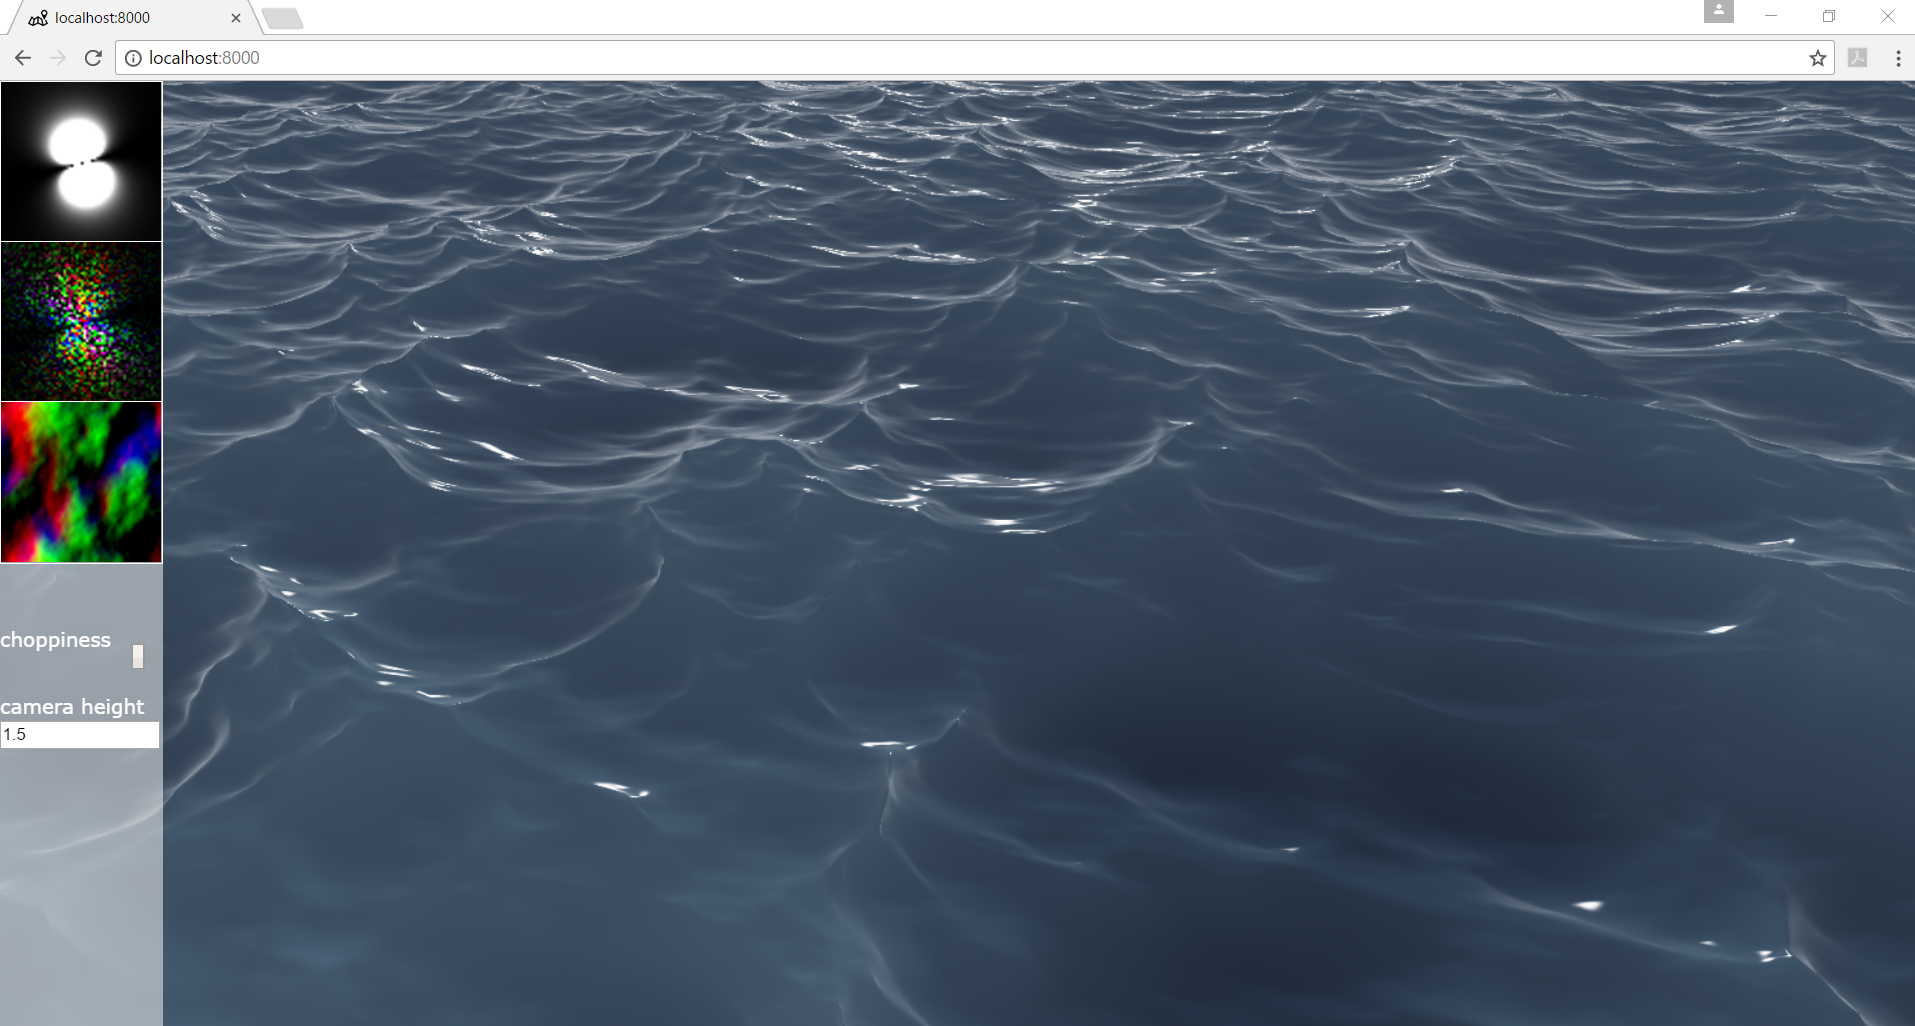
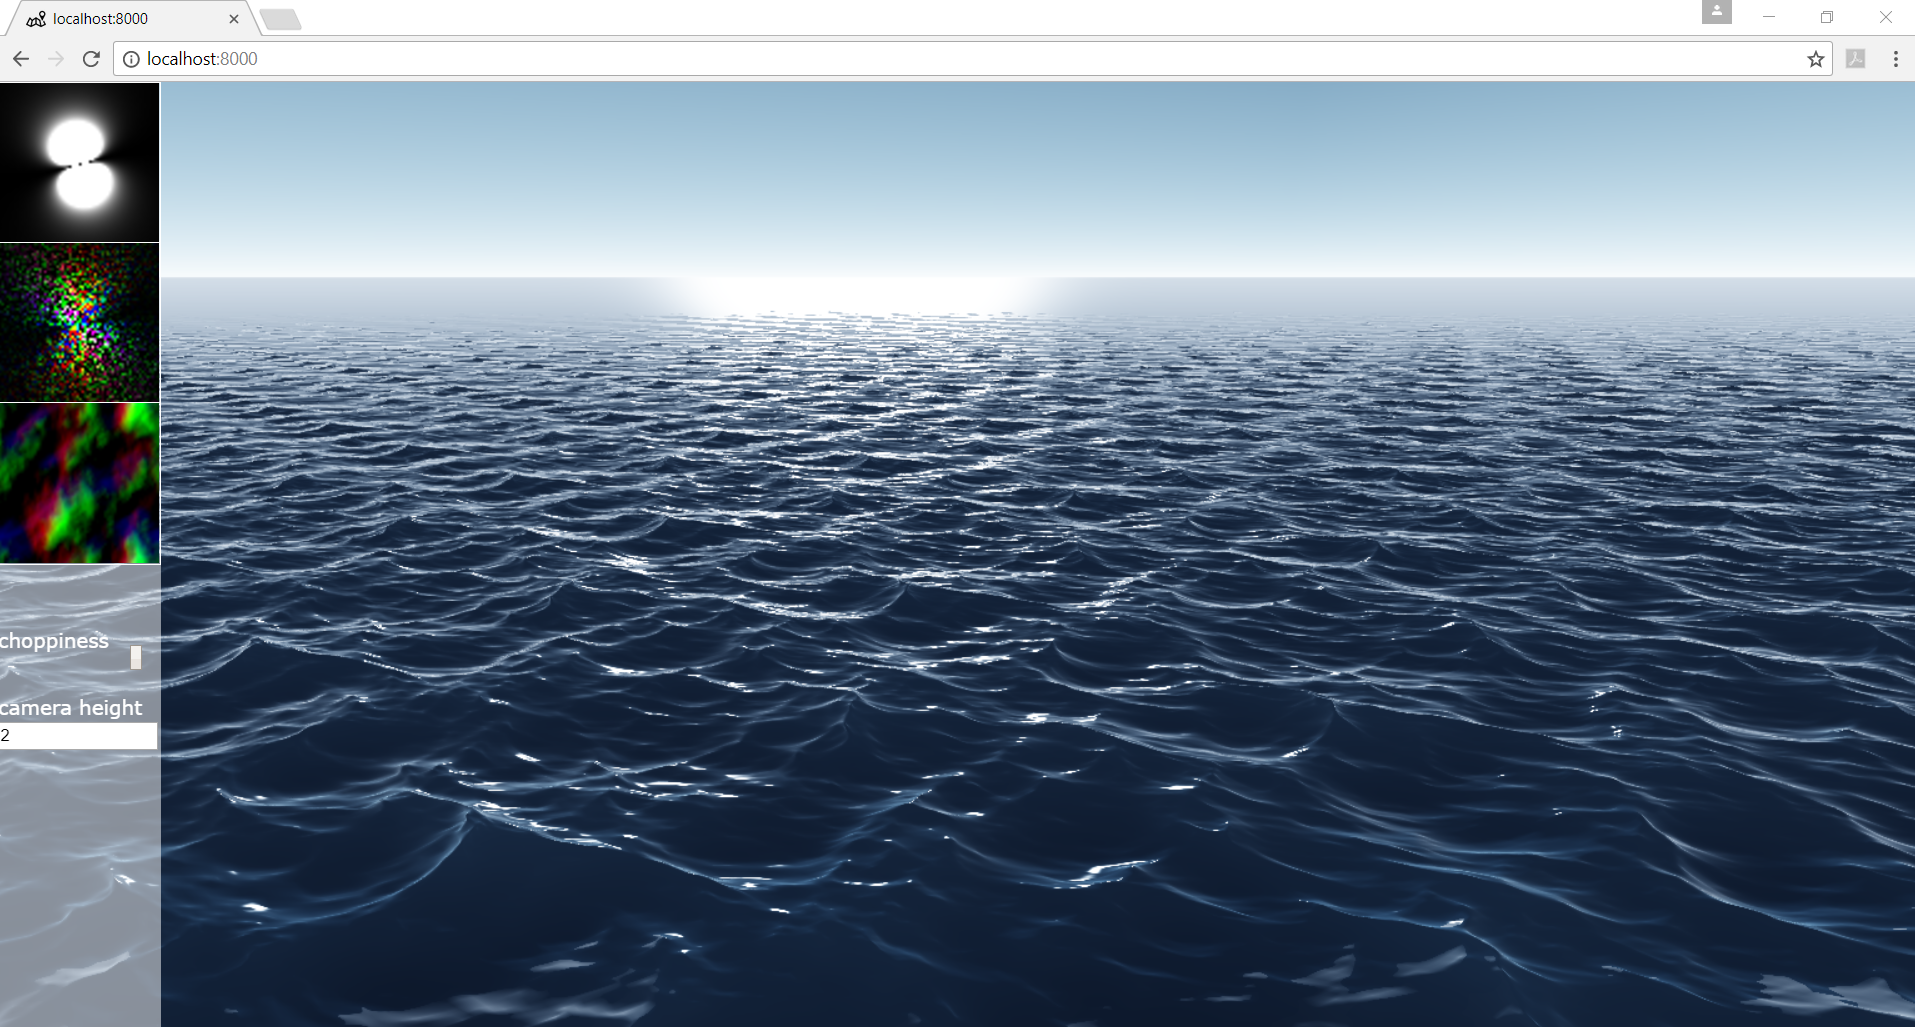
adjust shader color

diff --git a/Client/index.html b/Client/index.html
@@ -247,7 +247,7 @@
             if(diffuseFactor>0.0)
                 color+= specular * LIGHTCOLOR;
      
-            gl_FragColor = vec4(1.0 - exp(-0.95*color), 1.0); 
+            gl_FragColor = vec4(1.0 - exp(-1.2*color*color), 1.0); 
     }
      </script>
 </head>
